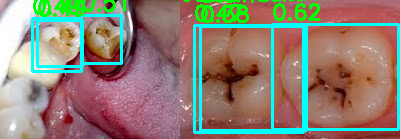
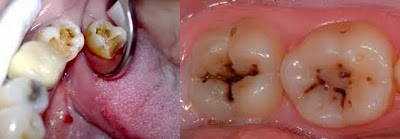
test pth vs onnx

Changed region(s): [[0.45, 0.0, 1.0, 0.9784], [0.06, 0.0, 0.33, 0.5468]]

diff --git a/test.py b/test.py
@@ -12,13 +12,13 @@ from module.detector import Detector
 if __name__ == '__main__':
     # 指定训练配置文件
     parser = argparse.ArgumentParser()
-    parser.add_argument('--yaml', type=str, default="", help='.yaml config')
-    parser.add_argument('--weight', type=str, default=None, help='.weight config')
-    parser.add_argument('--img', type=str, default='', help='The path of test image')
+    parser.add_argument('--yaml', type=str, default="tooth.yaml", help='.yaml config')
+    parser.add_argument('--weight', type=str, default="weights\epoch-230.pth", help='.weight config')
+    parser.add_argument('--img', type=str, default='karies gigi.jpg', help='The path of test image')
     parser.add_argument('--thresh', type=float, default=0.65, help='The path of test image')
     parser.add_argument('--onnx', action="store_true", default=False, help='Export onnx file')
     parser.add_argument('--torchscript', action="store_true", default=False, help='Export torchscript file')
-    parser.add_argument('--cpu', action="store_true", default=False, help='Run on cpu')
+    parser.add_argument('--cpu', action="store_true", default="cpu", help='Run on cpu')
 
     opt = parser.parse_args()
     assert os.path.exists(opt.yaml), "请指定正确的配置文件路径"

diff --git a/deploy/FastestDet/runtime.py b/deploy/FastestDet/runtime.py
@@ -141,14 +141,14 @@ if __name__ == '__main__':
     opt = parser.parse_args()
     assert os.path.exists(opt.img)
     source = opt.img
-    model_onnx = 'epoch230_160.onnx'
+    model_onnx = 'weight\epoch230-opt.onnx'
     label = "tooth.names"
     thresh = 0.3
     
     img = cv2.imread(source)
     #img =  imutils.resize(img, width=640, height=640, inter=cv2.INTER_NEAREST)
     # 模型输入的宽高
-    input_width, input_height = 160, 160
+    input_width, input_height = 352, 352
     # 加载模型
     session = onnxruntime.InferenceSession(model_onnx)
     # 目标检测
